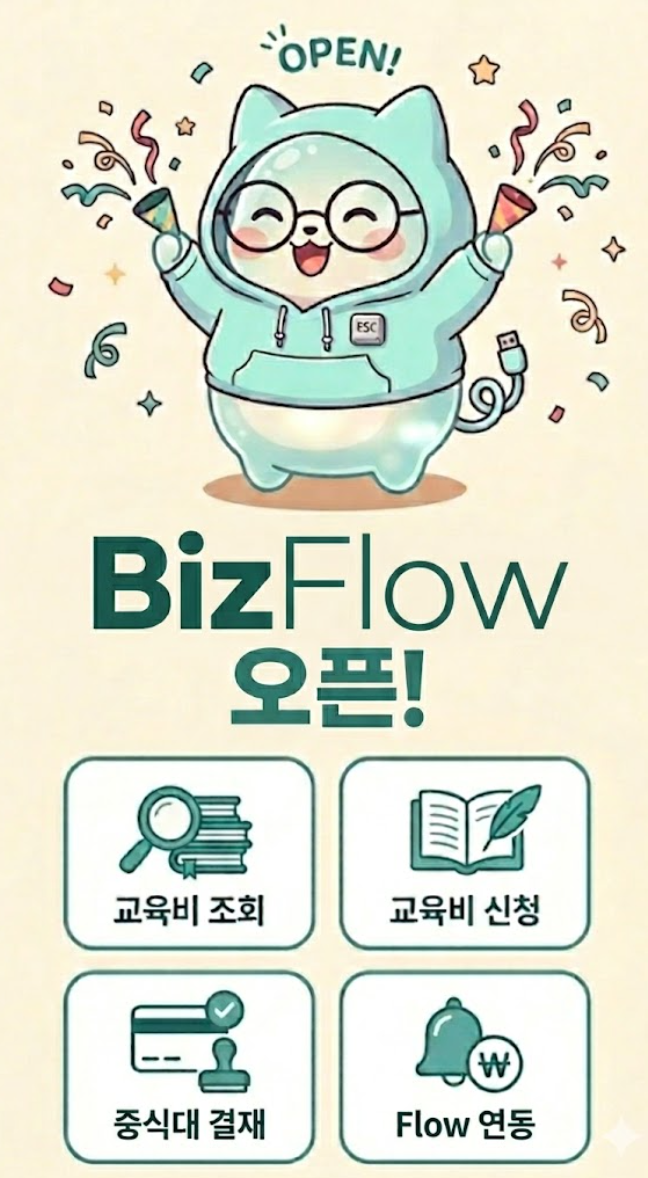
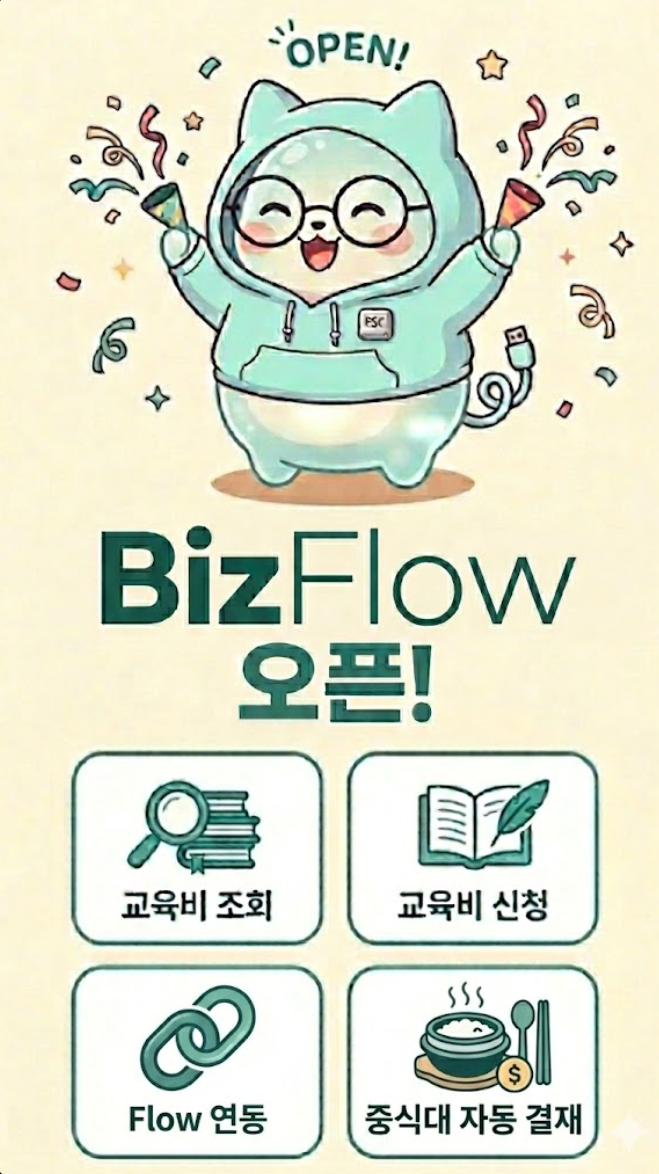
밥카 자동결재 교통비 제외, Flow 메시지 통합, APPROVAL 링크 추가
- 자동결재 시 티머니 버스/지하철 제외
- Flow 메시지: cardDay14+cardAutoSuccess → cardAutoAlarm 통합 (모드별 분기)
- FLOW_LINK.APPROVAL 추가, draft/submit 성공 시 기안문서 탭 링크
- switchTab에서 approval/bizplay → draft 탭 alias 매핑

diff --git a/src/html/dev-edu-book-dashboard.html b/src/html/dev-edu-book-dashboard.html
@@ -536,6 +536,7 @@ tailwind.config = {
 <script>
 /* ─── 탭 전환 ─── */
 window.switchTab = async function(tabId) {
+  if (tabId === 'approval' || tabId === 'bizplay') tabId = 'draft'; // URL alias
   const tabs = ['edu', 'card', 'draft', 'board'];
   const comingSoon = [];
   const activeClass = 'px-4 py-2 text-sm font-semibold border-b-2 border-accent text-accent whitespace-nowrap';
